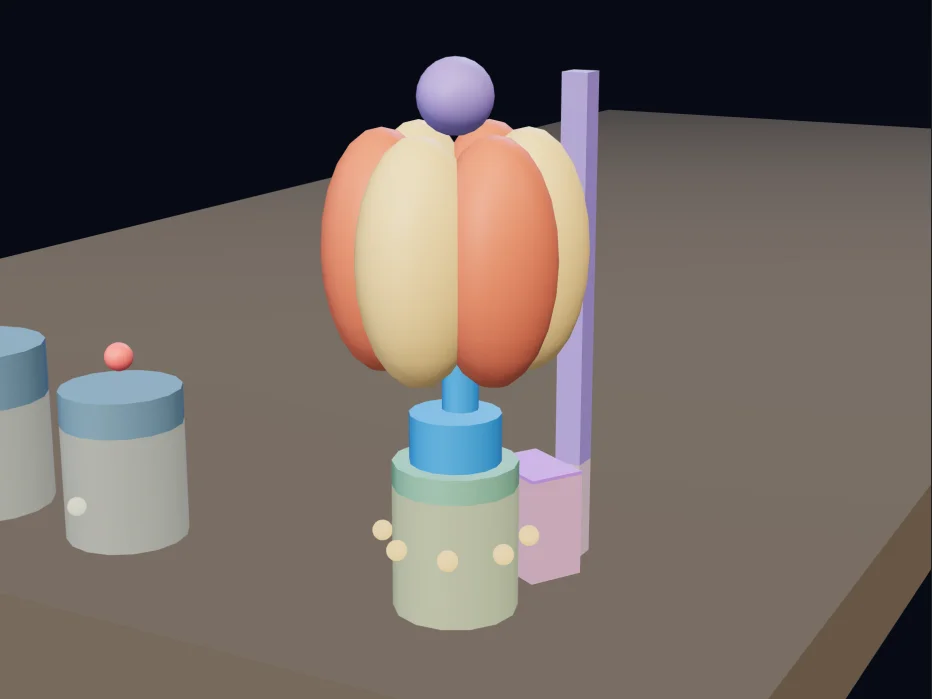
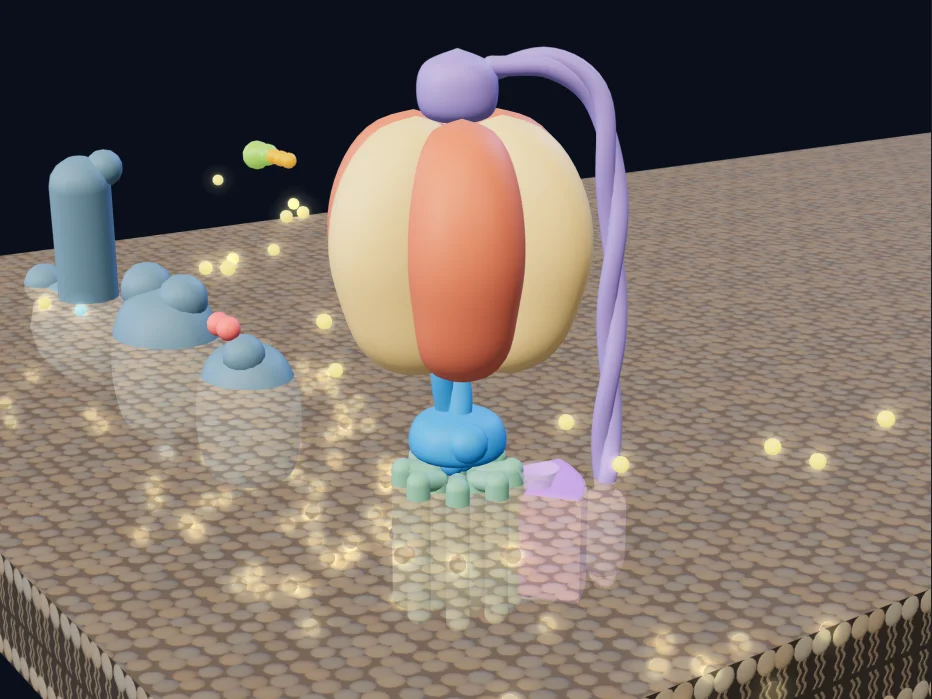
feat(atp-synthase): replace the temporary images with shots of the real model

diff --git a/scripts/cards/atp-synthase.html b/scripts/cards/atp-synthase.html
@@ -47,9 +47,9 @@
 
       .shot img {
         position: absolute;
-        top: -30px;
-        left: -60px;
-        width: 1000px;
+        top: -14px;
+        left: -4px;
+        width: 860px;
       }
 
       .shot::after {
